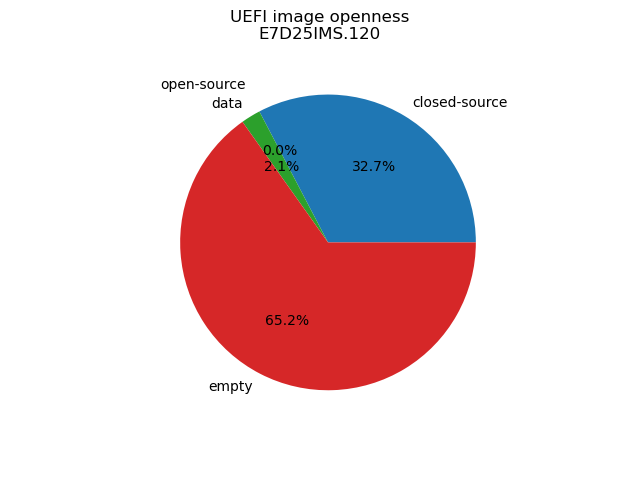
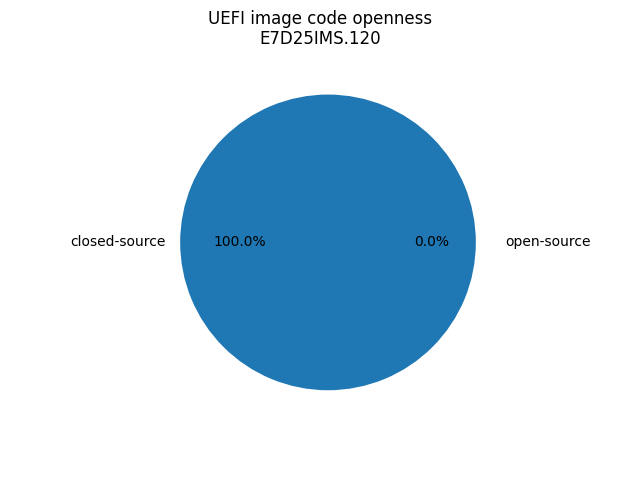
examples: update examples to recent format

diff --git a/examples/E7D25IMS.120_openness_score.md b/examples/E7D25IMS.120_openness_score.md
@@ -2,19 +2,17 @@
 
 Openness Score for E7D25IMS.120
 
-* Image size: 33554432
+Open-source code percentage: **0.0%**
+Closed-source code percentage: **100.0%**
+
+* Image size: 33554432 (0x2000000)
 * Number of entries: 2856
 * Number of regions: 3
 * Number of volumes: 8
 * Total open-source files size: 0 (0x0)
-* Total closed-source files size: 10966853 (0xa75745)
-* Total data size: 716912 (0xaf070)
-* Total empty size: 21870667 (0x14db84b)
-
-Open-source percentage: **0.0%**
-Closed-source percentage: **32.7%**
-Open-source percentage (empty space not included): **0.0%**
-Closed-source percentage (empty space not included): **93.9%**
+* Total closed-source files size: 11540861 (0xb0197d)
+* Total data size: 143376 (0x23010)
+* Total empty size: 21870195 (0x14db673)
 
 > Numbers given above already include the calculations from UEFI volumes
 > presented below. Only top level volumes have been presented
@@ -23,7 +21,14 @@ Closed-source percentage (empty space not included): **93.9%**
 
 | Region | Base | Size | Category |
 | ------ | ---- | ---- | -------- |
+| ME | 0x1000 | 0x3d8000 | closed-source |
+| Descriptor | 0x0 | 0x1000 | data |
 | Non-empty | 0x17c0000 | 0x20000 | data |
+| Empty (0xFF) | 0x3d9000 | 0xc27000 | empty |
+| Empty (0xFF) | 0x1040000 | 0x50000 | empty |
+
+> These are regions defined by Intel flash descriptor but also holes
+> between those regions and UEFI Volumes which may or may not be empty.
 
 ## UEFI Volume FA4974FC-AF1D-4E5D-BDC5-DACD6D27BAEC
 
@@ -31,8 +36,8 @@ Closed-source percentage (empty space not included): **93.9%**
 * Size: 0x40000
 * Number of entries: 26
 * Open-source code size: 0 (0x0)
-* Closed-source code size: 10637 (0x298d)
-* Data size: 272 (0x110)
+* Closed-source code size: 10909 (0x2a9d)
+* Data size: 0 (0x0)
 * Empty size: 251235 (0x3d563)
 
 > The table below is just a simplified view of top level volume entries
@@ -41,8 +46,6 @@ Closed-source percentage (empty space not included): **93.9%**
 
 | Filename | File type | File subtype | Base | Size | Category |
 | -------- | --------- | ------------ | ---- | ---- | -------- |
-| GUID store | Padding | Non-empty | 0x100299d | 0x100 | data |
-| GUID store | Padding | Non-empty | 0x103fff0 | 0x10 | data |
 | Free space | Free space |  | 0x100298d | 0x10 | empty |
 | Free space | Free space |  | 0x1002a9d | 0x3d553 | empty |
 
@@ -70,9 +73,9 @@ Closed-source percentage (empty space not included): **93.9%**
 * Size: 0x200000
 * Number of entries: 12
 * Open-source code size: 0 (0x0)
-* Closed-source code size: 1132072 (0x114628)
+* Closed-source code size: 1132544 (0x114800)
 * Data size: 8208 (0x2010)
-* Empty size: 956872 (0xe99c8)
+* Empty size: 956400 (0xe97f0)
 
 > The table below is just a simplified view of top level volume entries
 > categorized as file that are known to contain either data or empty space.
@@ -81,8 +84,6 @@ Closed-source percentage (empty space not included): **93.9%**
 | Filename | File type | File subtype | Base | Size | Category |
 | -------- | --------- | ------------ | ---- | ---- | -------- |
 | Padding | Padding | Non-empty | 0x18f4800 | 0x2010 | data |
-| Pad-file | File | Pad | 0x17e0078 | 0x70 | empty |
-| Pad-file | File | Pad | 0x17e0280 | 0x168 | empty |
 | Volume free space | Free space |  | 0x18f6810 | 0xe97f0 | empty |
 
 ## UEFI Volume 3DA4F21C-189D-46A3-98C0-AF814EBF01B0
@@ -164,8 +165,8 @@ Closed-source percentage (empty space not included): **93.9%**
 * Size: 0x100000
 * Number of entries: 321
 * Open-source code size: 0 (0x0)
-* Closed-source code size: -92040 (-0x16788)
-* Data size: 573264 (0x8bf50)
+* Closed-source code size: 481224 (0x757c8)
+* Data size: 0 (0x0)
 * Empty size: 567352 (0x8a838)
 
 > The table below is just a simplified view of top level volume entries
@@ -174,193 +175,6 @@ Closed-source percentage (empty space not included): **93.9%**
 
 | Filename | File type | File subtype | Base | Size | Category |
 | -------- | --------- | ------------ | ---- | ---- | -------- |
-| GUID store | Padding | Non-empty | 0x1f6f675 | 0x100 | data |
-| GUID store | Padding | Non-empty | 0x1f6f785 | 0x10 | data |
-| Non-empty pad-file | File | Pad | 0x1f6f7d0 | 0x8b338 | data |
-| Non-UEFI data | Padding | Non-empty | 0x1ffa000 | 0xb08 | data |
-| Free space | Free space |  | 0x1f6f665 | 0x10 | empty |
-| Free space | Free space |  | 0x1f6f775 | 0x10 | empty |
-| Free space | Free space |  | 0x1f6f7e8 | 0x8a818 | empty |
-# Dasharo Openness Score
-
-Openness Score for E7D25IMS.120
-
-* Image size: 33554432
-* Number of entries: 2856
-* Number of regions: 3
-* Number of volumes: 8
-* Total open-source files size: 0 (0x0)
-* Total closed-source files size: 10966853 (0xa75745)
-* Total data size: 716912 (0xaf070)
-* Total empty size: 21870667 (0x14db84b)
-
-Open-source percentage: **0.0%**
-Closed-source percentage: **32.7%**
-Open-source percentage (empty space not included): **0.0%**
-Closed-source percentage (empty space not included): **93.9%**
-
-> Numbers given above already include the calculations from UEFI volumes
-> presented below. Only top level volumes have been presented
-
-## UEFI regions
-
-| Region | Base | Size | Category |
-| ------ | ---- | ---- | -------- |
-| Non-empty | 0x17c0000 | 0x20000 | data |
-
-## UEFI Volume FA4974FC-AF1D-4E5D-BDC5-DACD6D27BAEC
-
-* Base: 0x1000000
-* Size: 0x40000
-* Number of entries: 26
-* Open-source code size: 0 (0x0)
-* Closed-source code size: 10637 (0x298d)
-* Data size: 272 (0x110)
-* Empty size: 251235 (0x3d563)
-
-> The table below is just a simplified view of top level volume entries
-> categorized as file that are known to contain either data or empty space.
-> Everything else is considered closed-source.
-
-| Filename | File type | File subtype | Base | Size | Category |
-| -------- | --------- | ------------ | ---- | ---- | -------- |
-| GUID store | Padding | Non-empty | 0x100299d | 0x100 | data |
-| GUID store | Padding | Non-empty | 0x103fff0 | 0x10 | data |
-| Free space | Free space |  | 0x100298d | 0x10 | empty |
-| Free space | Free space |  | 0x1002a9d | 0x3d553 | empty |
-
-## UEFI Volume 4F1C52D3-D824-4D2A-A2F0-EC40C23C5916
-
-* Base: 0x1090000
-* Size: 0x730000
-* Number of entries: 1879
-* Open-source code size: 0 (0x0)
-* Closed-source code size: 5190992 (0x4f3550)
-* Data size: 0 (0x0)
-* Empty size: 2345648 (0x23cab0)
-
-> The table below is just a simplified view of top level volume entries
-> categorized as file that are known to contain either data or empty space.
-> Everything else is considered closed-source.
-
-| Filename | File type | File subtype | Base | Size | Category |
-| -------- | --------- | ------------ | ---- | ---- | -------- |
-| Volume free space | Free space |  | 0x1583550 | 0x23cab0 | empty |
-
-## UEFI Volume AFDD39F1-19D7-4501-A730-CE5A27E1154B
-
-* Base: 0x17e0000
-* Size: 0x200000
-* Number of entries: 12
-* Open-source code size: 0 (0x0)
-* Closed-source code size: 1132072 (0x114628)
-* Data size: 8208 (0x2010)
-* Empty size: 956872 (0xe99c8)
-
-> The table below is just a simplified view of top level volume entries
-> categorized as file that are known to contain either data or empty space.
-> Everything else is considered closed-source.
-
-| Filename | File type | File subtype | Base | Size | Category |
-| -------- | --------- | ------------ | ---- | ---- | -------- |
-| Padding | Padding | Non-empty | 0x18f4800 | 0x2010 | data |
-| Pad-file | File | Pad | 0x17e0078 | 0x70 | empty |
-| Pad-file | File | Pad | 0x17e0280 | 0x168 | empty |
-| Volume free space | Free space |  | 0x18f6810 | 0xe97f0 | empty |
-
-## UEFI Volume 3DA4F21C-189D-46A3-98C0-AF814EBF01B0
-
-* Base: 0x19e0000
-* Size: 0x120000
-* Number of entries: 144
-* Open-source code size: 0 (0x0)
-* Closed-source code size: 198760 (0x30868)
-* Data size: 0 (0x0)
-* Empty size: 980888 (0xef798)
-
-> The table below is just a simplified view of top level volume entries
-> categorized as file that are known to contain either data or empty space.
-> Everything else is considered closed-source.
-
-| Filename | File type | File subtype | Base | Size | Category |
-| -------- | --------- | ------------ | ---- | ---- | -------- |
-| Volume free space | Free space |  | 0x1a10868 | 0xef798 | empty |
-
-## UEFI Volume 8C8CE578-8A3D-4F1C-9935-896185C32DD3
-
-* Base: 0x1b00000
-* Size: 0x260000
-* Number of entries: 104
-* Open-source code size: 0 (0x0)
-* Closed-source code size: -216816 (-0x34ef0)
-* Data size: 0 (0x0)
-* Empty size: 2707184 (0x294ef0)
-
-> The table below is just a simplified view of top level volume entries
-> categorized as file that are known to contain either data or empty space.
-> Everything else is considered closed-source.
-
-| Filename | File type | File subtype | Base | Size | Category |
-| -------- | --------- | ------------ | ---- | ---- | -------- |
-| Volume free space | Free space |  | 0x1b458c0 | 0x7a7b0 | empty |
-| Volume free space | Free space |  | 0x1bc0070 | 0x19ff90 | empty |
-
-## UEFI Volume 52F1AFB6-78A6-448F-8274-F370549AC5D0
-
-* Base: 0x1d60000
-* Size: 0x160000
-* Number of entries: 42
-* Open-source code size: 0 (0x0)
-* Closed-source code size: 690960 (0xa8b10)
-* Data size: 0 (0x0)
-* Empty size: 750832 (0xb74f0)
-
-> The table below is just a simplified view of top level volume entries
-> categorized as file that are known to contain either data or empty space.
-> Everything else is considered closed-source.
-
-| Filename | File type | File subtype | Base | Size | Category |
-| -------- | --------- | ------------ | ---- | ---- | -------- |
-| Volume free space | Free space |  | 0x1e08b10 | 0xb74f0 | empty |
-
-## UEFI Volume 7BEBD21A-A1E5-4C4C-9CA1-A0C168BCBD9D
-
-* Base: 0x1ec0000
-* Size: 0x40000
-* Number of entries: 6
-* Open-source code size: 0 (0x0)
-* Closed-source code size: 21824 (0x5540)
-* Data size: 0 (0x0)
-* Empty size: 240320 (0x3aac0)
-
-> The table below is just a simplified view of top level volume entries
-> categorized as file that are known to contain either data or empty space.
-> Everything else is considered closed-source.
-
-| Filename | File type | File subtype | Base | Size | Category |
-| -------- | --------- | ------------ | ---- | ---- | -------- |
-| Volume free space | Free space |  | 0x1ec5540 | 0x3aac0 | empty |
-
-## UEFI Volume 61C0F511-A691-4F54-974F-B9A42172CE53
-
-* Base: 0x1f00000
-* Size: 0x100000
-* Number of entries: 321
-* Open-source code size: 0 (0x0)
-* Closed-source code size: -92040 (-0x16788)
-* Data size: 573264 (0x8bf50)
-* Empty size: 567352 (0x8a838)
-
-> The table below is just a simplified view of top level volume entries
-> categorized as file that are known to contain either data or empty space.
-> Everything else is considered closed-source.
-
-| Filename | File type | File subtype | Base | Size | Category |
-| -------- | --------- | ------------ | ---- | ---- | -------- |
-| GUID store | Padding | Non-empty | 0x1f6f675 | 0x100 | data |
-| GUID store | Padding | Non-empty | 0x1f6f785 | 0x10 | data |
-| Non-empty pad-file | File | Pad | 0x1f6f7d0 | 0x8b338 | data |
-| Non-UEFI data | Padding | Non-empty | 0x1ffa000 | 0xb08 | data |
 | Free space | Free space |  | 0x1f6f665 | 0x10 | empty |
 | Free space | Free space |  | 0x1f6f775 | 0x10 | empty |
 | Free space | Free space |  | 0x1f6f7e8 | 0x8a818 | empty |

diff --git a/examples/heads-x230-maximized-v0.2.0-1554-g21b87ff.rom_openness_score.md b/examples/heads-x230-maximized-v0.2.0-1554-g21b87ff.rom_openness_score.md
@@ -1,0 +1,54 @@
+# Dasharo Openness Score
+
+Openness Score for heads-x230-maximized-v0.2.0-1554-g21b87ff.rom
+
+Open-source code percentage: **97.9%**
+Closed-source code percentage: **2.1%**
+
+* Image size: 12582912 (0xc00000)
+* Number of regions: 4
+* Number of CBFSes: 1
+* Total open-source code size: 7398475 (0x70e44b)
+* Total closed-source code size: 157696 (0x26800)
+* Total data size: 74513 (0x12311)
+* Total empty size: 4952228 (0x4b90a4)
+
+> Numbers given above already include the calculations from CBFS regions
+> presented below
+
+## FMAP regions
+
+| FMAP region | Offset | Size | Category |
+| ----------- | ------ | ---- | -------- |
+| RW_MRC_CACHE | 0x20000 | 0x10000 | data |
+| FMAP | 0x30000 | 0x200 | data |
+
+## CBFS COREBOOT
+
+* CBFS size: 12385792
+* Number of files: 14
+* Open-source files size: 7398475 (0x70e44b)
+* Closed-source files size: 26624 (0x6800)
+* Data size: 8465 (0x2111)
+* Empty size: 4952228 (0x4b90a4)
+
+> Numbers given above are already normalized (i.e. they already include size
+> of metadata and possible closed-source LAN drivers included in the payload
+ > which are not visible in the table below)
+
+| CBFS filname | CBFS filetype | Size | Compression | Category |
+| ------------ | ------------- | ---- | ----------- | -------- |
+| fallback/romstage | stage | 84776 | none | open-source |
+| fallback/ramstage | stage | 105555 | LZMA | open-source |
+| fallback/dsdt.aml | raw | 14522 | none | open-source |
+| fallback/postcar | stage | 29972 | none | open-source |
+| fallback/payload | simple elf | 7137282 | none | open-source |
+| bootblock | bootblock | 26368 | none | open-source |
+| cpu_microcode_blob.bin | microcode | 26624 | none | closed-source |
+| cbfs_master_header | cbfs header | 32 | none | data |
+| config | raw | 2989 | LZMA | data |
+| revision | raw | 724 | none | data |
+| build_info | raw | 101 | none | data |
+| vbt.bin | raw | 1433 | LZMA | data |
+| cmos_layout.bin | cmos_layout | 2012 | none | data |
+| (empty) | null | 4952228 | none | empty |

diff --git a/examples/asus_kgpe-d16_v0.4.0_16M_vboot_notpm.rom_openness_score.md b/examples/asus_kgpe-d16_v0.4.0_16M_vboot_notpm.rom_openness_score.md
@@ -2,6 +2,9 @@
 
 Openness Score for asus_kgpe-d16_v0.4.0_16M_vboot_notpm.rom
 
+Open-source code percentage: **100.0%**
+Closed-source code percentage: **0.0%**
+
 * Image size: 16777216 (0x1000000)
 * Number of regions: 19
 * Number of CBFSes: 2
@@ -9,9 +12,6 @@ Openness Score for asus_kgpe-d16_v0.4.0_16M_vboot_notpm.rom
 * Total closed-source code size: 0 (0x0)
 * Total data size: 765974 (0xbb016)
 * Total empty size: 15101476 (0xe66e24)
-
-Open-source code percentage: **100.0%**
-Closed-source code percentage: **0.0%**
 
 > Numbers given above already include the calculations from CBFS regions
 > presented below

diff --git a/examples/msi_ms7d25_v1.1.1_ddr4.rom_openness_score.md b/examples/msi_ms7d25_v1.1.1_ddr4.rom_openness_score.md
@@ -2,6 +2,9 @@
 
 Openness Score for msi_ms7d25_v1.1.1_ddr4.rom
 
+Open-source code percentage: **42.8%**
+Closed-source code percentage: **57.2%**
+
 * Image size: 33554432 (0x2000000)
 * Number of regions: 33
 * Number of CBFSes: 3
@@ -9,9 +12,6 @@ Openness Score for msi_ms7d25_v1.1.1_ddr4.rom
 * Total closed-source code size: 8846847 (0x86fdff)
 * Total data size: 939652 (0xe5684)
 * Total empty size: 17135512 (0x1057798)
-
-Open-source code percentage: **42.8%**
-Closed-source code percentage: **57.2%**
 
 > Numbers given above already include the calculations from CBFS regions
 > presented below
